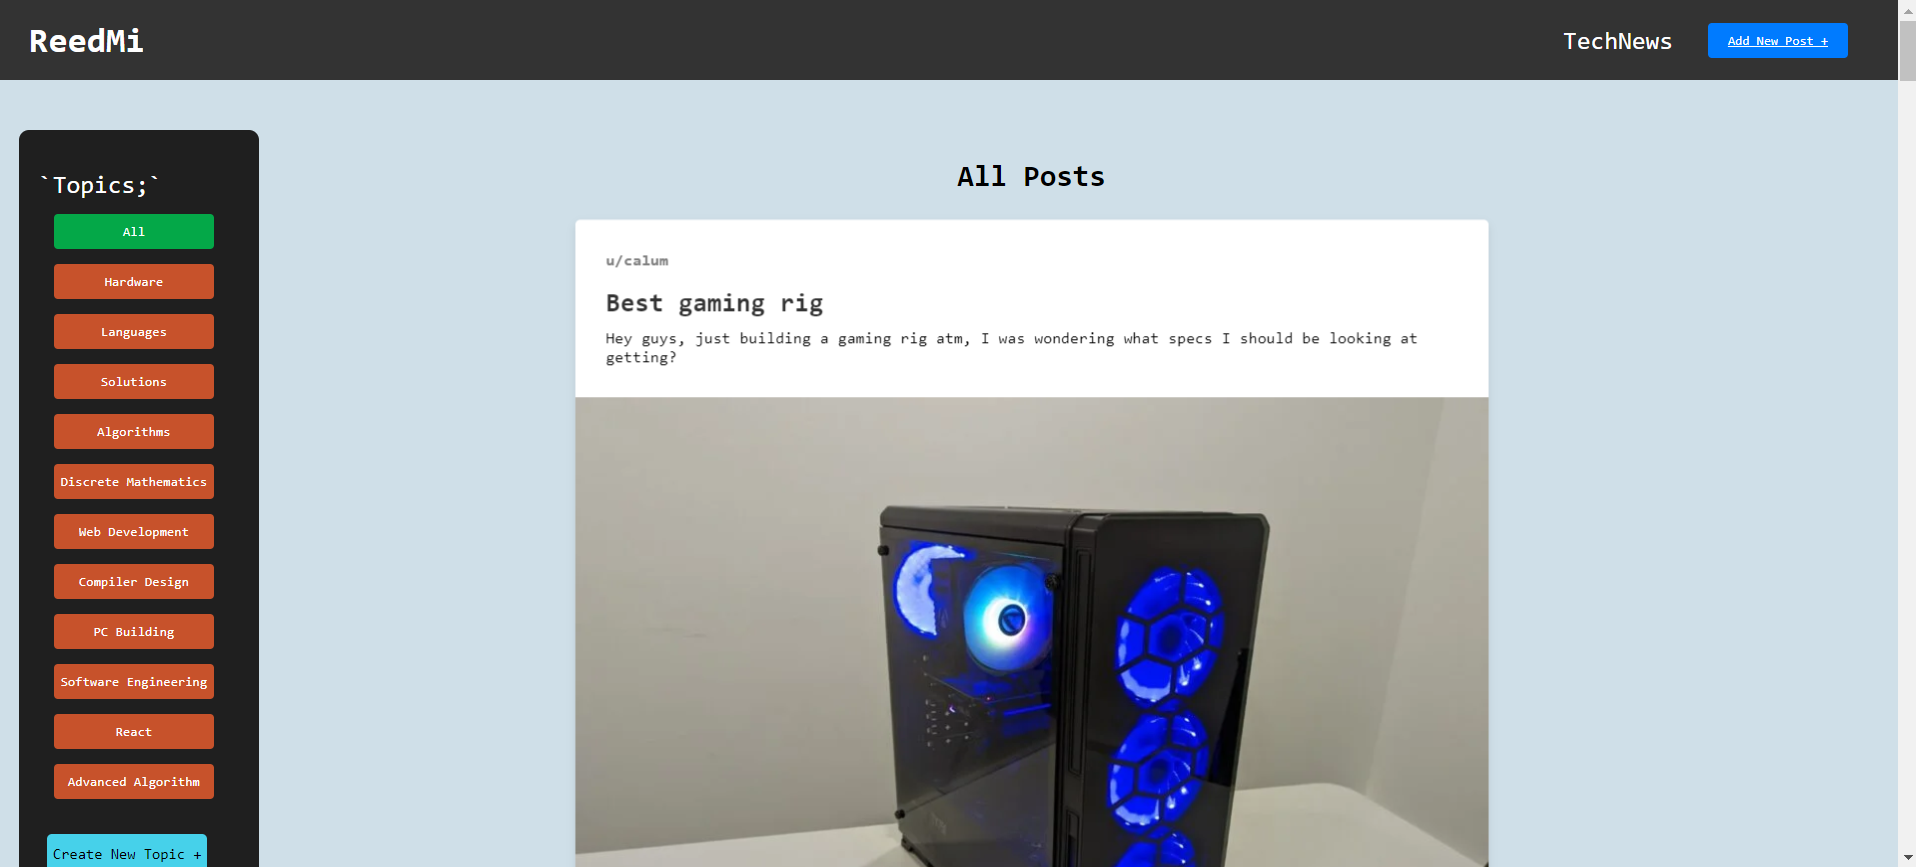
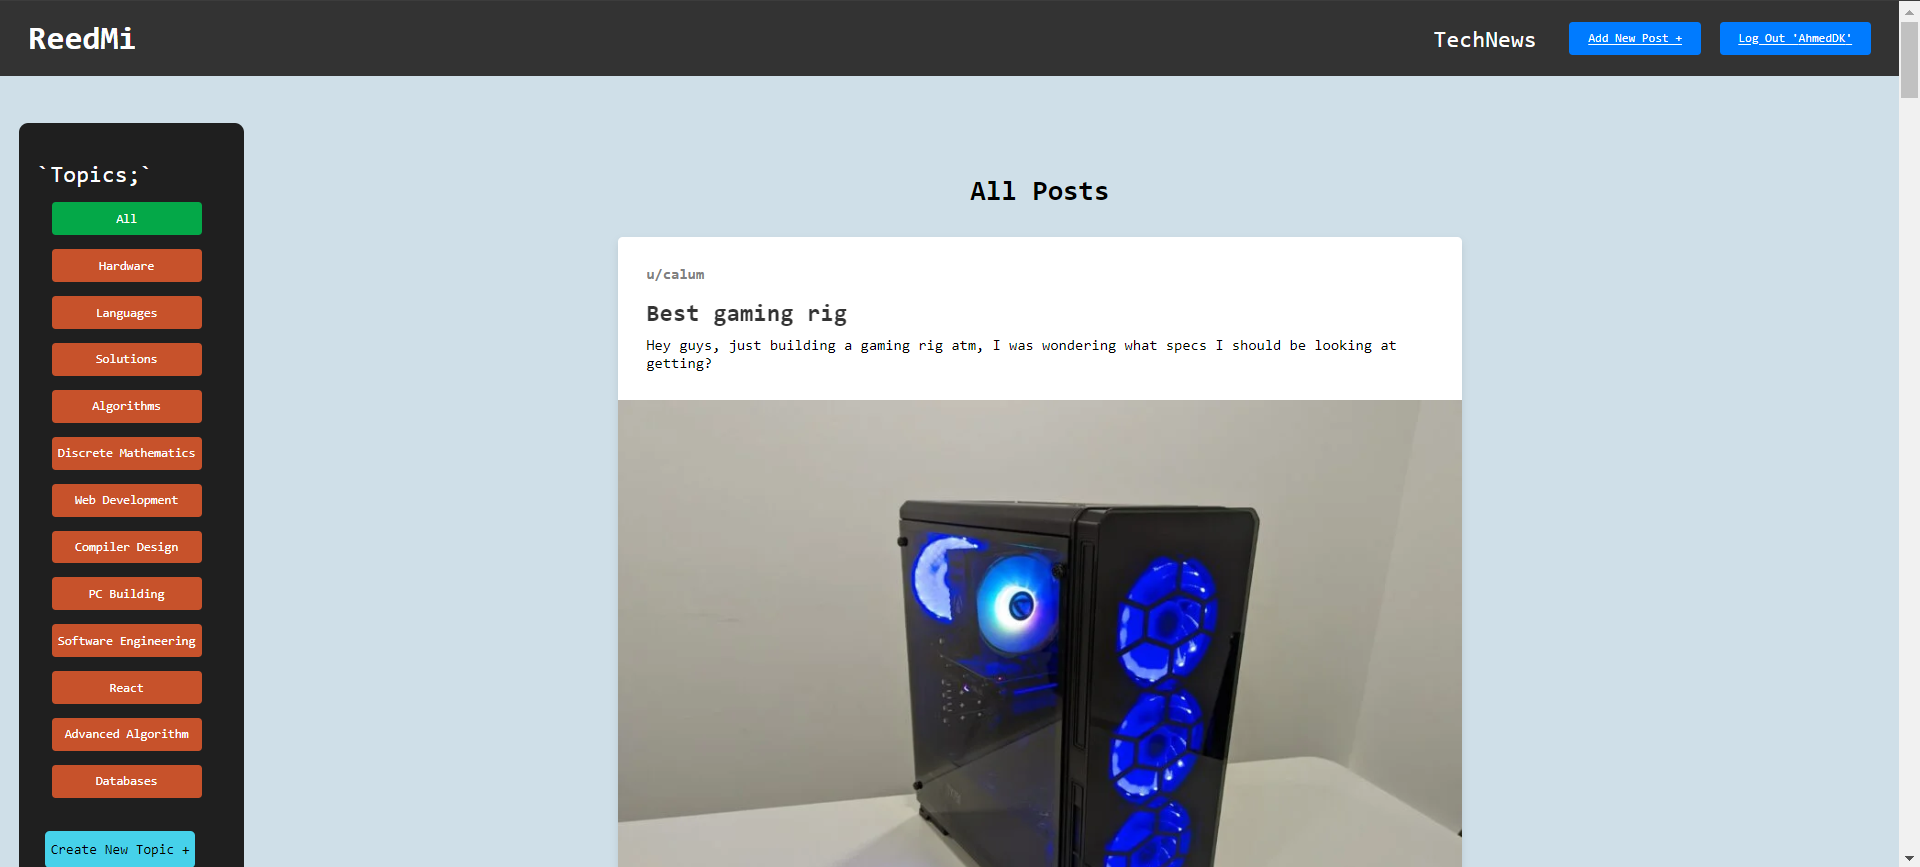
updated screenshots

diff --git a/SCREENSHOTS/README.md b/SCREENSHOTS/README.md
@@ -15,7 +15,7 @@ The screenshot captures the user interface presented when clicking the 'Add New 
 
 The screenshot illustrates the home page users are greeted with upon logging into the ReedMi platform. It is designed to be the central hub where users can immerse themselves in the latest tech-related discussions and contributions from the community. Key elements of this page include:
 
-    - Navigation Bar (Top): this is prominently placed at the top and includes the webapp logo 'ReedMi' to the left, 'TechNews' where users can view all the latest tech news and a 'Add New Post" button where users can go to create new content. 
+    - Navigation Bar (Top): This is prominently placed at the top and includes the webapp logo 'ReedMi' to the left, 'TechNews' where users can view all the latest tech news, a 'Add New Post" button where users can go to create new content and a 'Log Out' button which is visible next to the user's name in the top right side. This provides users with a clear and convenient way to securely exit their account when they are finished with their session. 
     - Topics Panel (Left): A vertical panel listing various topics such as 'Hardware', 'Languages', 'Solutions', and others. Each topic acts as a filter to tailor the displayed posts to the user's interests. There is also a 'Create New Topic' option at the bottom of this panel, inviting users to expand the conversation with their own new categories.
     - Content Area (Center): This is the main area where individual posts are displayed. Each post includes the username of the poster (e.g., u/calum), the title of the post (e.g., 'Best gaming rig'), and a brief content snippet or image if attached. It is the interactive segment where users can click on a post to delve into the details, engage with content through comments, and participate in discussions.
 
